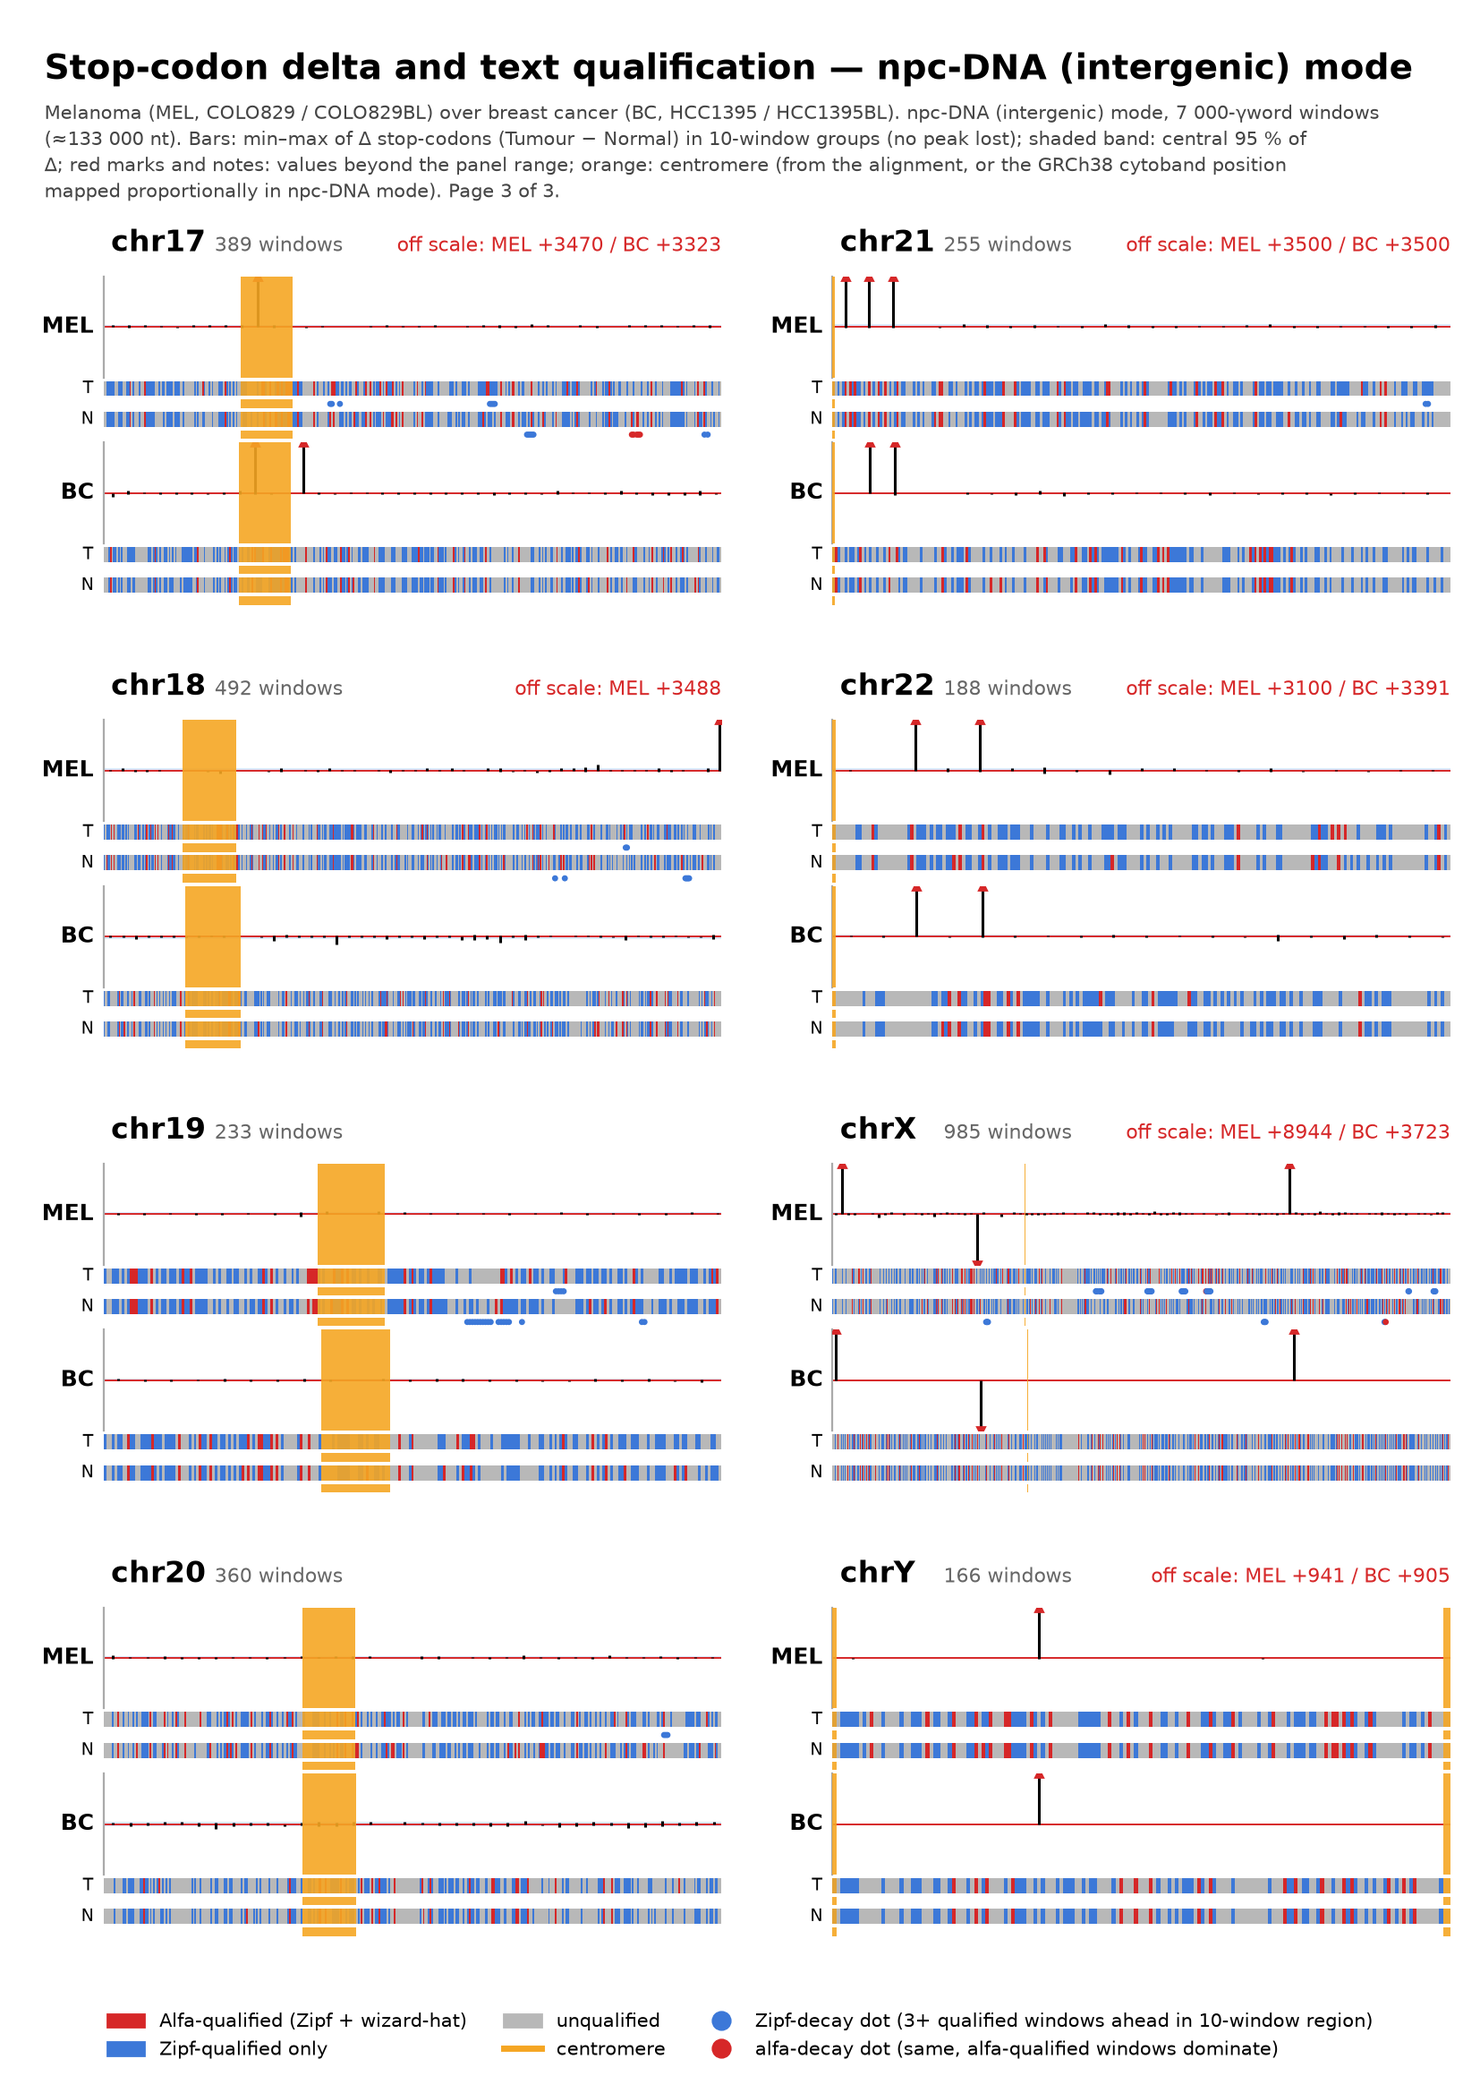
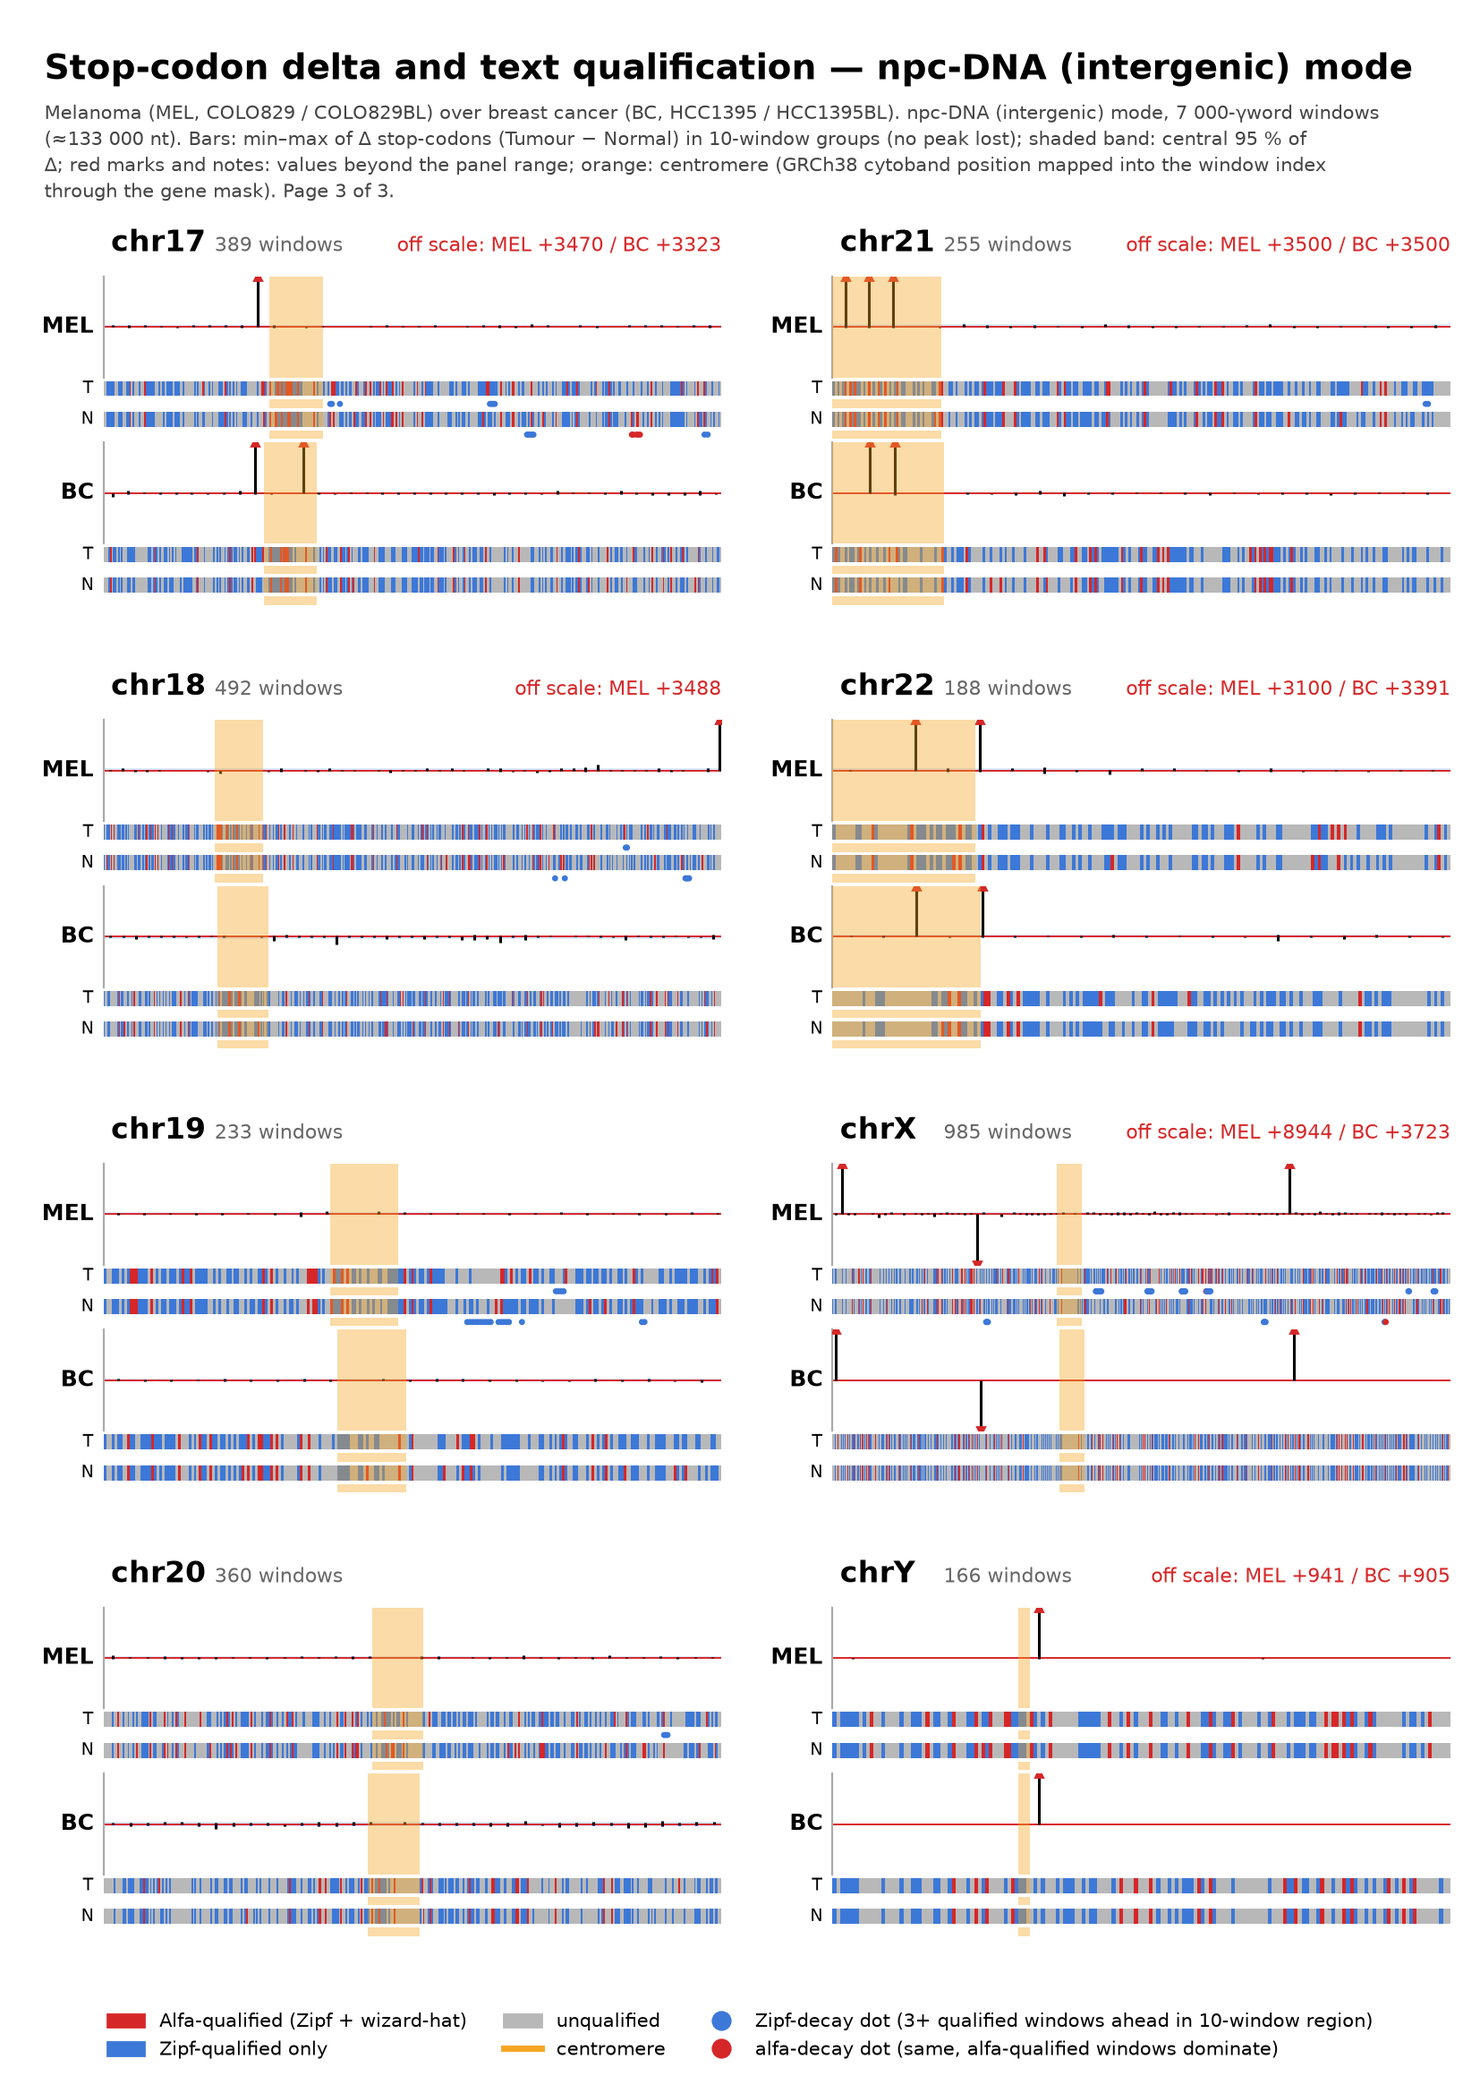
Figures: map the centromere exactly through the gene mask; add v1 renders
The centromere band is now the GRCh38 centromere mapped into the window
index with the FilteredToRawMapper interval logic (normal sample's gene
mask), replacing the zero-stop-window / x1.6 heuristic, which fell back to a
wrong position when no zero-stop window existed (e.g. BC_v2 chr1). Where the
heuristic found a zero-stop window, the exact centromere ends at that window.
figures/out/v1 reproduces the submitted figures' content from expected/v1.

diff --git a/figures/make_figures.py b/figures/make_figures.py
@@ -8,7 +8,7 @@ Appendix_1 (plaited DNA-scopes, npc-DNA, 3 A4 pages) and Appendix_2 (pc-DNA),
 plus tables.md with the DFA summaries. Decay-dot and centromere logic mirrors
 DecayGapDfa / StopCodonAlphaComparison.FindCentromereWindowRange in the C# code.
 """
-import argparse, csv, os, textwrap
+import argparse, bisect, csv, glob, json, os, textwrap
 import matplotlib
 matplotlib.use("Agg")
 import matplotlib.pyplot as plt
@@ -16,8 +16,10 @@ from matplotlib.patches import Patch
 from matplotlib.lines import Line2D
 
 DATASETS = {
-    "v1": dict(bc_density="BreastCancer_Normal_vs_Tumor", bc_alpha="BreastCancer", mel_density="Melanoma_Normal_vs_Tumor", mel_alpha="Melanoma"),
-    "v2": dict(bc_density="BreastCancer_v2_Normal_vs_Tumor", bc_alpha="BreastCancer_v2", mel_density="Melanoma_v3_Normal_vs_Tumor", mel_alpha="Melanoma_v3"),
+    "v1": dict(bc_density="BreastCancer_Normal_vs_Tumor", bc_alpha="BreastCancer", mel_density="Melanoma_Normal_vs_Tumor", mel_alpha="Melanoma",
+               bc_normal="HomoSapiens_BreastCancer_Normal", mel_normal="HomoSapiens_Melanoma_Normal"),
+    "v2": dict(bc_density="BreastCancer_v2_Normal_vs_Tumor", bc_alpha="BreastCancer_v2", mel_density="Melanoma_v3_Normal_vs_Tumor", mel_alpha="Melanoma_v3",
+               bc_normal="HomoSapiens_BreastCancer_Normal_v2", mel_normal="HomoSapiens_Melanoma_Normal_v3"),
 }
 CHROMS = [str(i) for i in range(1, 23)] + ["X", "Y"]
 MODE_LABEL = {"Intergenic": "npc-DNA (intergenic)", "Gene": "pc-DNA (gene bodies)", "WholeGenome": "whole DNA"}
@@ -31,6 +33,8 @@ CENTROMERE = {"1": (121_700_000, 125_100_000), "2": (91_800_000, 96_000_000), "3
               "18": (15_400_000, 21_500_000), "19": (24_200_000, 28_100_000), "20": (26_200_000, 30_400_000), "21": (0, 13_000_000),
               "22": (0, 17_400_000), "X": (58_100_000, 63_800_000), "Y": (10_300_000, 10_600_000)}
 SLIDING, MIN_DELTA = 10, 3
+DATA_ROOT = os.environ.get("GAMMATEXT_DATA", r"D:\Files\Stream")   # sequence/annotation root (only needed for exact centromere mapping)
+CACHE = os.path.join(os.path.dirname(os.path.abspath(__file__)), ".cache")
 
 
 # ---------------------------------------------------------------- data
@@ -66,7 +70,93 @@ def decay_dots(normal, tumour):
             else: t_side.append((c, "alfa" if ta > tz else "zipf"))
     return n_side, t_side
 
-def centromere_ranges(chrom, rows, mode="Intergenic"):
+# ---------------------------------------------------------------- centromere: exact mapping through the gene mask
+def raw_length(sample, chrom):
+    """Character count of the chromosome sequence file (newlines excluded), cached."""
+    os.makedirs(CACHE, exist_ok=True); cp = os.path.join(CACHE, "chromosome_lengths.json")
+    cache = json.load(open(cp)) if os.path.exists(cp) else {}
+    key = f"{sample}/chr{chrom}"
+    if key not in cache:
+        files = glob.glob(os.path.join(DATA_ROOT, sample, f"chr{chrom}.*"))
+        if not files: return None
+        size = os.path.getsize(files[0]); nl = 0
+        with open(files[0], "rb") as fh:
+            for chunk in iter(lambda: fh.read(1 << 24), b""): nl += chunk.count(b"\n")
+        cache[key] = size - nl; json.dump(cache, open(cp, "w"), indent=0)
+    return cache[key]
+
+_mask_cache = {}
+def mask_intervals(sample, chrom, gene_mode):
+    """(filteredStart, rawStart, length) runs of the filtered sequence, exactly as FilteredToRawMapper.Build in the
+    C# code: protein-coding 'gene' features, sorted, first gene dropped (legacy FindNextGene), overlaps merged,
+    coordinates in the legacy index space (rawStart = StartPosition - 2)."""
+    key = (sample, chrom, gene_mode)
+    if key in _mask_cache: return _mask_cache[key]
+    files = glob.glob(os.path.join(DATA_ROOT, sample + "_GeneInfo", "*"))
+    total = raw_length(sample, chrom)
+    if not files or total is None: _mask_cache[key] = None; return None
+    genes = []
+    for f in files:
+        with open(f, encoding="utf-8", errors="replace") as fh:
+            for line in fh:
+                c = line.rstrip("\n").split("\t")
+                if len(c) < 9 or c[2] != "gene" or c[0] not in (f"chr{chrom}", chrom): continue
+                attrs = dict(kv.split("=", 1) for kv in c[8].split(";") if "=" in kv)
+                gt = attrs.get("gene_biotype") or attrs.get("gene_type") or attrs.get("biotype")
+                if gt == "protein_coding": genes.append((int(c[3]) - 1, int(c[4]) - 1))
+    genes.sort(); genes = genes[1:]
+    merged = []
+    for st, en in genes:
+        if merged and st <= merged[-1][1] + 1: merged[-1][1] = max(merged[-1][1], en)
+        else: merged.append([st, en])
+    iv = []; fpos = 0
+    if gene_mode:
+        for gs, ge in merged:
+            rs, ln = gs - 2, ge - gs + 1
+            if rs < 0: ln += rs; rs = 0
+            if rs + ln > total: ln = total - rs
+            if ln > 0: iv.append((fpos, rs, ln)); fpos += ln
+    else:
+        prev = 1
+        for gs, ge in merged:
+            a, b = prev + 1, gs - 1
+            if b >= a:
+                rs, ln = a - 2, b - a + 1
+                if rs < 0: ln += rs; rs = 0
+                if ln > 0: iv.append((fpos, rs, ln)); fpos += ln
+            prev = ge
+        a, b = prev + 1, total + 1
+        if b >= a:
+            rs, ln = a - 2, b - a + 1
+            if rs < 0: ln += rs; rs = 0
+            if rs + ln > total: ln = total - rs
+            if ln > 0: iv.append((fpos, rs, ln)); fpos += ln
+    _mask_cache[key] = iv; return iv
+
+def raw_to_filtered(iv, p):
+    """Filtered position of raw position p; a position inside a removed region maps to the next kept run."""
+    starts = [rs for _, rs, _ in iv]
+    k = bisect.bisect_right(starts, p) - 1
+    if k >= 0 and p < iv[k][1] + iv[k][2]: return iv[k][0] + (p - iv[k][1])
+    return iv[k + 1][0] if k + 1 < len(iv) else iv[-1][0] + iv[-1][2]
+
+def centromere_ranges(chrom, rows, mode="Intergenic", sample=None):
+    """GRCh38 centromere (UCSC cytoband acen, CentromereRegions.cs) mapped exactly into the window index space
+    through the normal sample's gene mask; falls back to the legacy heuristic when the sample data is absent."""
+    if sample and chrom in CENTROMERE and rows["start"]:
+        cs, ce = CENTROMERE[chrom]; fs = None
+        if mode == "WholeGenome": fs, fe = cs, ce
+        else:
+            iv = mask_intervals(sample, chrom, mode == "Gene")
+            if iv: fs, fe = raw_to_filtered(iv, cs), raw_to_filtered(iv, ce)
+        if fs is not None:
+            win = list(zip(rows["start"], rows["length"]))
+            idx = [i for i, (st, ln) in enumerate(win) if st < fe and st + ln > fs] if fe > fs else \
+                  [i for i, (st, ln) in enumerate(win) if st <= fs < st + ln]
+            if idx: return [(idx[0], idx[-1])]
+    return centromere_ranges_heuristic(chrom, rows, mode)
+
+def centromere_ranges_heuristic(chrom, rows, mode="Intergenic"):
     """Centromere window ranges (inclusive index pairs), after FindCentromereWindowRange in the C# code.
     Pass 1: windows in which the tumour has no stop codons (unassembled satellite / N runs), each run expanded
     over neighbours with a tumour/normal stop-codon ratio outside 0.5–2.0. Unlike the legacy chart, which
@@ -173,8 +263,8 @@ def dnascope(exp, ds, out, pair_key, sample_label, pair_ids, chrom, mode, name):
     if off:
         fig.text(0.5, 0.875, "off scale (clipped, marked ▲▼): " + ", ".join(f"window {i + 1}: {v:+d}" for i, v in off[:6]) + (" …" if len(off) > 6 else ""),
                  ha="center", fontsize=10, color=RED)
-    for cen in centromere_ranges(chrom, rows, mode):
-        for a in (ax, ax_t, dot_t, ax_n, dot_n): a.axvspan(cen[0] - 0.5, cen[1] + 0.5, color=AMBER, alpha=0.9, lw=0, zorder=4)
+    for cen in centromere_ranges(chrom, rows, mode, ds[pair_key.replace("_alpha", "_normal")]):
+        for a in (ax, ax_t, dot_t, ax_n, dot_n): a.axvspan(cen[0] - 0.5, cen[1] + 0.5, color=AMBER, alpha=0.4, lw=0, zorder=4)
     ax.set_xlim(-0.5, n - 0.5); ax.set_xticks([]); ax.set_ylabel("Δ stop-codons\n(Tumour − Normal)", fontsize=12)
     ax.grid(axis="y", ls=":", alpha=0.5); ax.spines["top"].set_visible(False); ax.spines["right"].set_visible(False)
     draw_bands(ax_t, ax_n, rows, dot_t, dot_n, dot_size=18)
@@ -214,8 +304,8 @@ def panel(fig, gs_cell, exp, ds, chrom, mode):
         a.set_ylabel(label, rotation=0, ha="right", va="center", fontsize=9, weight="bold")
         for sp in ("top", "right", "bottom"): a.spines[sp].set_visible(False)
         a.spines["left"].set_color("#aaa")
-        for cen in centromere_ranges(chrom, rows, mode):
-            for ax_ in (a, bt, dt, bn, dn): ax_.axvspan(cen[0] - 0.5, cen[1] + 0.5, color=AMBER, alpha=0.9, lw=0, zorder=4)
+        for cen in centromere_ranges(chrom, rows, mode, ds[pair_key.replace("_alpha", "_normal")]):
+            for ax_ in (a, bt, dt, bn, dn): ax_.axvspan(cen[0] - 0.5, cen[1] + 0.5, color=AMBER, alpha=0.4, lw=0, zorder=4)
         draw_bands(bt, bn, rows, dt, dn, dot_size=6)
         bt.set_ylabel("T", rotation=0, ha="right", va="center", fontsize=7); bn.set_ylabel("N", rotation=0, ha="right", va="center", fontsize=7)
     return notes, n
@@ -236,7 +326,7 @@ def appendix(exp, ds, out, mode, name):
         sub = ("Melanoma (MEL, COLO829 / COLO829BL) over breast cancer (BC, HCC1395 / HCC1395BL). "
                f"{MODE_LABEL[mode]} mode, 7 000-γword windows (≈133 000 nt). Bars: min–max of Δ stop-codons (Tumour − Normal) in 10-window groups "
                "(no peak lost); shaded band: central 95 % of Δ; red marks and notes: values beyond the panel range; orange: centromere "
-               "(from the alignment, or the GRCh38 cytoband position mapped proportionally in npc-DNA mode). "
+               "(GRCh38 cytoband position mapped into the window index through the gene mask). "
                f"Page {p} of 3.")
         fig.text(0.03, 0.952, chr(10).join(textwrap.wrap(sub, 128)), fontsize=7.5, color="#444", va="top", linespacing=1.4)
         fig.legend(handles=legend_handles(), loc="lower center", ncol=3, fontsize=7.5, frameon=False, bbox_to_anchor=(0.5, 0.008))
@@ -267,7 +357,9 @@ def percentile(values, p):
 
 def main():
     ap = argparse.ArgumentParser(); ap.add_argument("--dataset", default="v2"); ap.add_argument("--expected", default=os.path.join(os.path.dirname(__file__), "..", "expected"))
-    ap.add_argument("--out", default=None); args = ap.parse_args()
+    ap.add_argument("--out", default=None); ap.add_argument("--data-root", default=None); args = ap.parse_args()
+    global DATA_ROOT
+    if args.data_root: DATA_ROOT = args.data_root
     ds = DATASETS[args.dataset]; exp = os.path.join(args.expected, args.dataset); out = args.out or os.path.join(os.path.dirname(__file__), "out", args.dataset)
     os.makedirs(out, exist_ok=True)
     figure_1_both(exp, ds, out)

diff --git a/figures/out/v1/tables.md b/figures/out/v1/tables.md
@@ -1,0 +1,92 @@
+# DFA summaries (decay-marker gap series)
+
+Category rows: dots on the normal side (tumour lost qualification) / tumour side; DFA α only where the series has ≥ 30 gaps (≥ 15 with a shortened threshold); n.c. otherwise.
+
+
+## Breast cancer — Intergenic
+
+| series | dots | gaps | mean gap | DFA α |
+|---|---|---|---|---|
+| NormalSide_Alfa | 8 | 7 | 1218.1 | n.c. |
+| NormalSide_Zipf | 370 | 369 | 38.2 | 0.4487 |
+| NormalSide_All | 378 | 377 | 37.3 | 0.4583 |
+| TumorSide_Alfa | 0 | 0 | - | n.c. |
+| TumorSide_Zipf | 310 | 309 | 46.0 | 0.5131 |
+| TumorSide_All | 310 | 309 | 46.0 | 0.5131 |
+
+## Breast cancer — Gene
+
+| series | dots | gaps | mean gap | DFA α |
+|---|---|---|---|---|
+| NormalSide_Alfa | 1 | 0 | - | n.c. |
+| NormalSide_Zipf | 184 | 183 | 29.0 | 0.4892 |
+| NormalSide_All | 185 | 184 | 28.9 | 0.4895 |
+| TumorSide_Alfa | 0 | 0 | - | n.c. |
+| TumorSide_Zipf | 164 | 163 | 34.3 | 0.569 |
+| TumorSide_All | 164 | 163 | 34.3 | 0.569 |
+
+## Breast cancer — WholeGenome
+
+| series | dots | gaps | mean gap | DFA α |
+|---|---|---|---|---|
+| NormalSide_Alfa | 0 | 0 | - | n.c. |
+| NormalSide_Zipf | 56 | 55 | 290.2 | 0.3881 |
+| NormalSide_All | 56 | 55 | 290.2 | 0.3881 |
+| TumorSide_Alfa | 0 | 0 | - | n.c. |
+| TumorSide_Zipf | 66 | 65 | 295.1 | 0.3816 |
+| TumorSide_All | 66 | 65 | 295.1 | 0.3816 |
+
+## Breast cancer — WholeGenomeMerged
+
+| series | dots | gaps | mean gap | DFA α |
+|---|---|---|---|---|
+| NormalSide_Alfa | 7 | 6 | 2065.5 | n.c. |
+| NormalSide_Zipf | 508 | 507 | 38.9 | 0.4883 |
+| NormalSide_All | 515 | 514 | 38.4 | 0.4857 |
+| TumorSide_Alfa | 6 | 5 | 2107.2 | n.c. |
+| TumorSide_Zipf | 481 | 480 | 42.4 | 0.5029 |
+| TumorSide_All | 487 | 486 | 41.9 | 0.5024 |
+
+## Melanoma — Intergenic
+
+| series | dots | gaps | mean gap | DFA α |
+|---|---|---|---|---|
+| NormalSide_Alfa | 35 | 34 | 389.4 | 0.3814 |
+| NormalSide_Zipf | 1098 | 1097 | 14.7 | 0.4787 |
+| NormalSide_All | 1133 | 1132 | 14.2 | 0.4801 |
+| TumorSide_Alfa | 25 | 24 | 550.7 | 0.1862 |
+| TumorSide_Zipf | 1141 | 1140 | 13.9 | 0.4982 |
+| TumorSide_All | 1166 | 1165 | 13.6 | 0.4884 |
+
+## Melanoma — Gene
+
+| series | dots | gaps | mean gap | DFA α |
+|---|---|---|---|---|
+| NormalSide_Alfa | 5 | 4 | 497.2 | n.c. |
+| NormalSide_Zipf | 424 | 423 | 14.3 | 0.5863 |
+| NormalSide_All | 429 | 428 | 14.1 | 0.5904 |
+| TumorSide_Alfa | 12 | 11 | 493.1 | n.c. |
+| TumorSide_Zipf | 540 | 539 | 11.3 | 0.525 |
+| TumorSide_All | 552 | 551 | 11.0 | 0.5566 |
+
+## Melanoma — WholeGenome
+
+| series | dots | gaps | mean gap | DFA α |
+|---|---|---|---|---|
+| NormalSide_Alfa | 39 | 38 | 470.5 | 0.4192 |
+| NormalSide_Zipf | 1575 | 1574 | 14.0 | 0.4745 |
+| NormalSide_All | 1614 | 1613 | 13.6 | 0.4827 |
+| TumorSide_Alfa | 57 | 56 | 371.4 | 0.4926 |
+| TumorSide_Zipf | 1679 | 1678 | 13.1 | 0.4765 |
+| TumorSide_All | 1736 | 1735 | 12.7 | 0.471 |
+
+## Melanoma — WholeGenomeMerged
+
+| series | dots | gaps | mean gap | DFA α |
+|---|---|---|---|---|
+| NormalSide_Alfa | 35 | 34 | 546.5 | 0.7089 |
+| NormalSide_Zipf | 1470 | 1469 | 15.1 | 0.5074 |
+| NormalSide_All | 1505 | 1504 | 14.8 | 0.5126 |
+| TumorSide_Alfa | 53 | 52 | 363.1 | 0.621 |
+| TumorSide_Zipf | 1638 | 1637 | 13.4 | 0.4977 |
+| TumorSide_All | 1691 | 1690 | 13.0 | 0.5042 |

diff --git a/README.md b/README.md
@@ -120,9 +120,14 @@ It produces Figure 1 (per-chromosome stop-codon difference; the breast-cancer
 panel alone and both cancers side by side), Figures 2–3 (chromosome 1
 DNA-scopes), Appendices 1–2 (plaited DNA-scopes of all chromosomes, npc-DNA
 and pc-DNA, three A4 pages each) and `tables.md` with the DFA summaries. The
-decay-dot rule and the centromere detection follow `DecayGapDfa` and
-`StopCodonAlphaComparison`; the dot counts per chromosome equal the DFA
-summaries. `figures/out/v2/` holds the rendered set used in the manuscript.
+decay-dot rule follows `DecayGapDfa` (the dot counts per chromosome equal
+the DFA summaries). The centromere band is the GRCh38 centromere
+(`CentromereRegions.cs`) mapped into the window index through the normal
+sample's gene mask with the same interval logic as `FilteredToRawMapper`;
+this needs the sample data under `--data-root` (or `GAMMATEXT_DATA`) and
+falls back to the legacy zero-stop-window heuristic without it.
+`figures/out/v1/` and `figures/out/v2/` hold the rendered sets for the two
+datasets; the v1 set reproduces the content of the submitted figures.
 
 ## Input provenance
 
